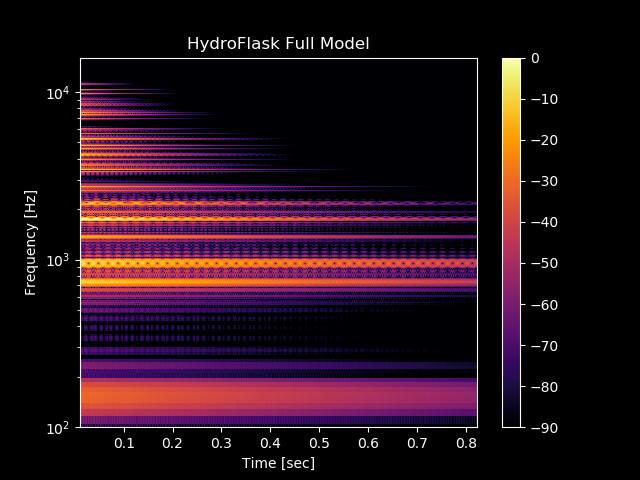
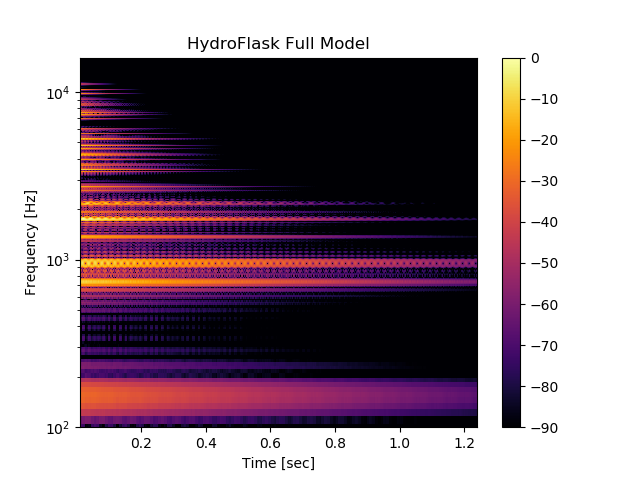
Make spectrogram backgrounds white [ci skip]

diff --git a/plot_specgram.py b/plot_specgram.py
@@ -5,31 +5,31 @@ import scipy.signal as signal
 import matplotlib.pyplot as plt
 import audio_dspy as adsp
 from matplotlib import ticker
-plt.style.use('dark_background')
+# plt.style.use('dark_background')
 
 # %%
 def plot_specgram(x, fs, title=''):
     plt.figure()
     f, t, Zxx = signal.spectrogram(x, fs=fs, nperseg=1024, noverlap=1024-32, nfft=1024*4)
     Zxx = np.abs(adsp.normalize(Zxx)) + np.finfo(float).eps
-    plt.pcolormesh(t, f, 20*np.log10(Zxx), cmap='inferno', vmin=-75)
+    plt.pcolormesh(t, f, 20*np.log10(Zxx), cmap='inferno', vmin=-90)
     plt.colorbar()
     plt.xlabel('Time [sec]')
     plt.ylabel('Frequency [Hz]')
     plt.gca().yaxis.set_major_formatter(ticker.ScalarFormatter())
-    plt.ylim(500, 16000)
+    plt.ylim(100, 16000)
     plt.yscale('log')
     plt.title(title)
     # plt.plot(x)
 
 # %%
 files = []
-files.append({'file': 'DAFX/full_model',  'title': 'DAFx Full Model'})
-files.append({'file': 'DAFX/full_actual', 'title': 'DAFx Full Recorded'})
-# files.append({'file': 'HydroFlask/full_model',  'title': 'HydroFlask Full Model'})
-# files.append({'file': 'HydroFlask/full_actual', 'title': 'HydroFlask Full Recorded'})
+# files.append({'file': 'DAFX/full_model',  'title': 'DAFx Full Model'})
+# files.append({'file': 'DAFX/full_actual', 'title': 'DAFx Full Recorded'})
+files.append({'file': 'HydroFlask/full_model',  'title': 'HydroFlask Full Model'})
+files.append({'file': 'HydroFlask/full_actual', 'title': 'HydroFlask Full Recorded'})
 
-N = 15000
+N = 60000
 for f in files:
     fs, x = wavfile.read('Audio/{}.wav'.format(f['file']))
     x = adsp.normalize(x[:N])
